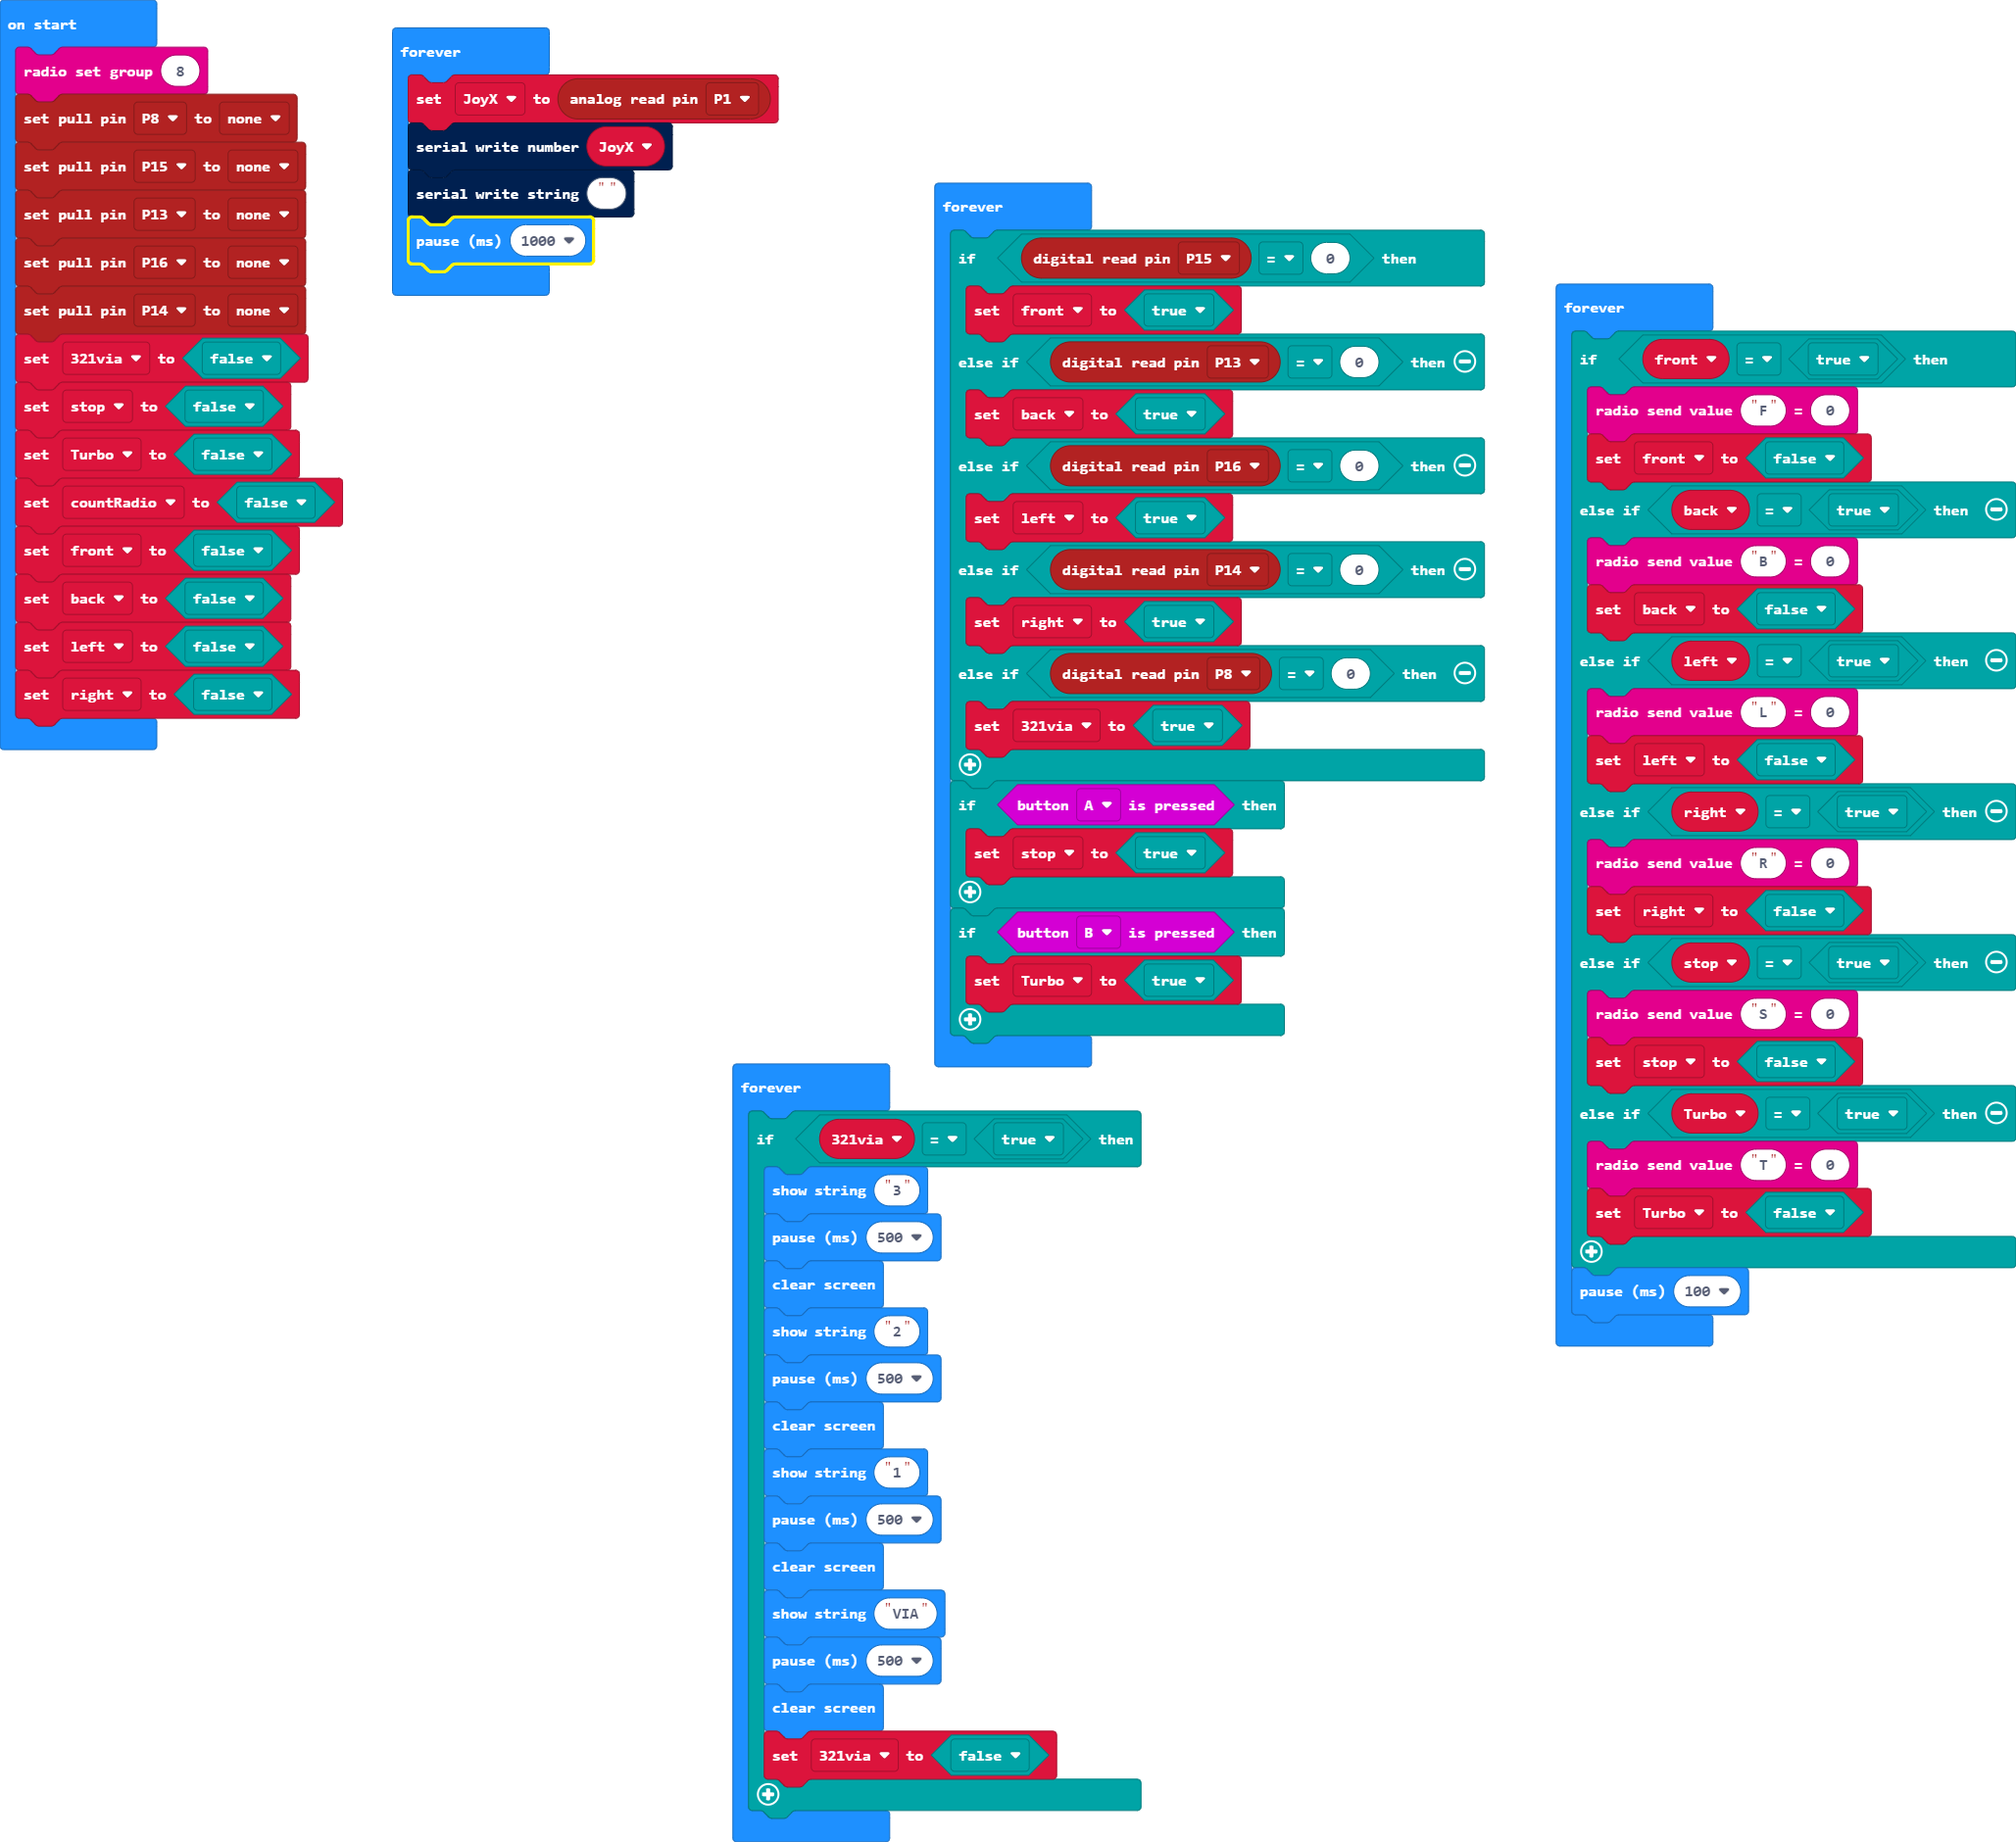
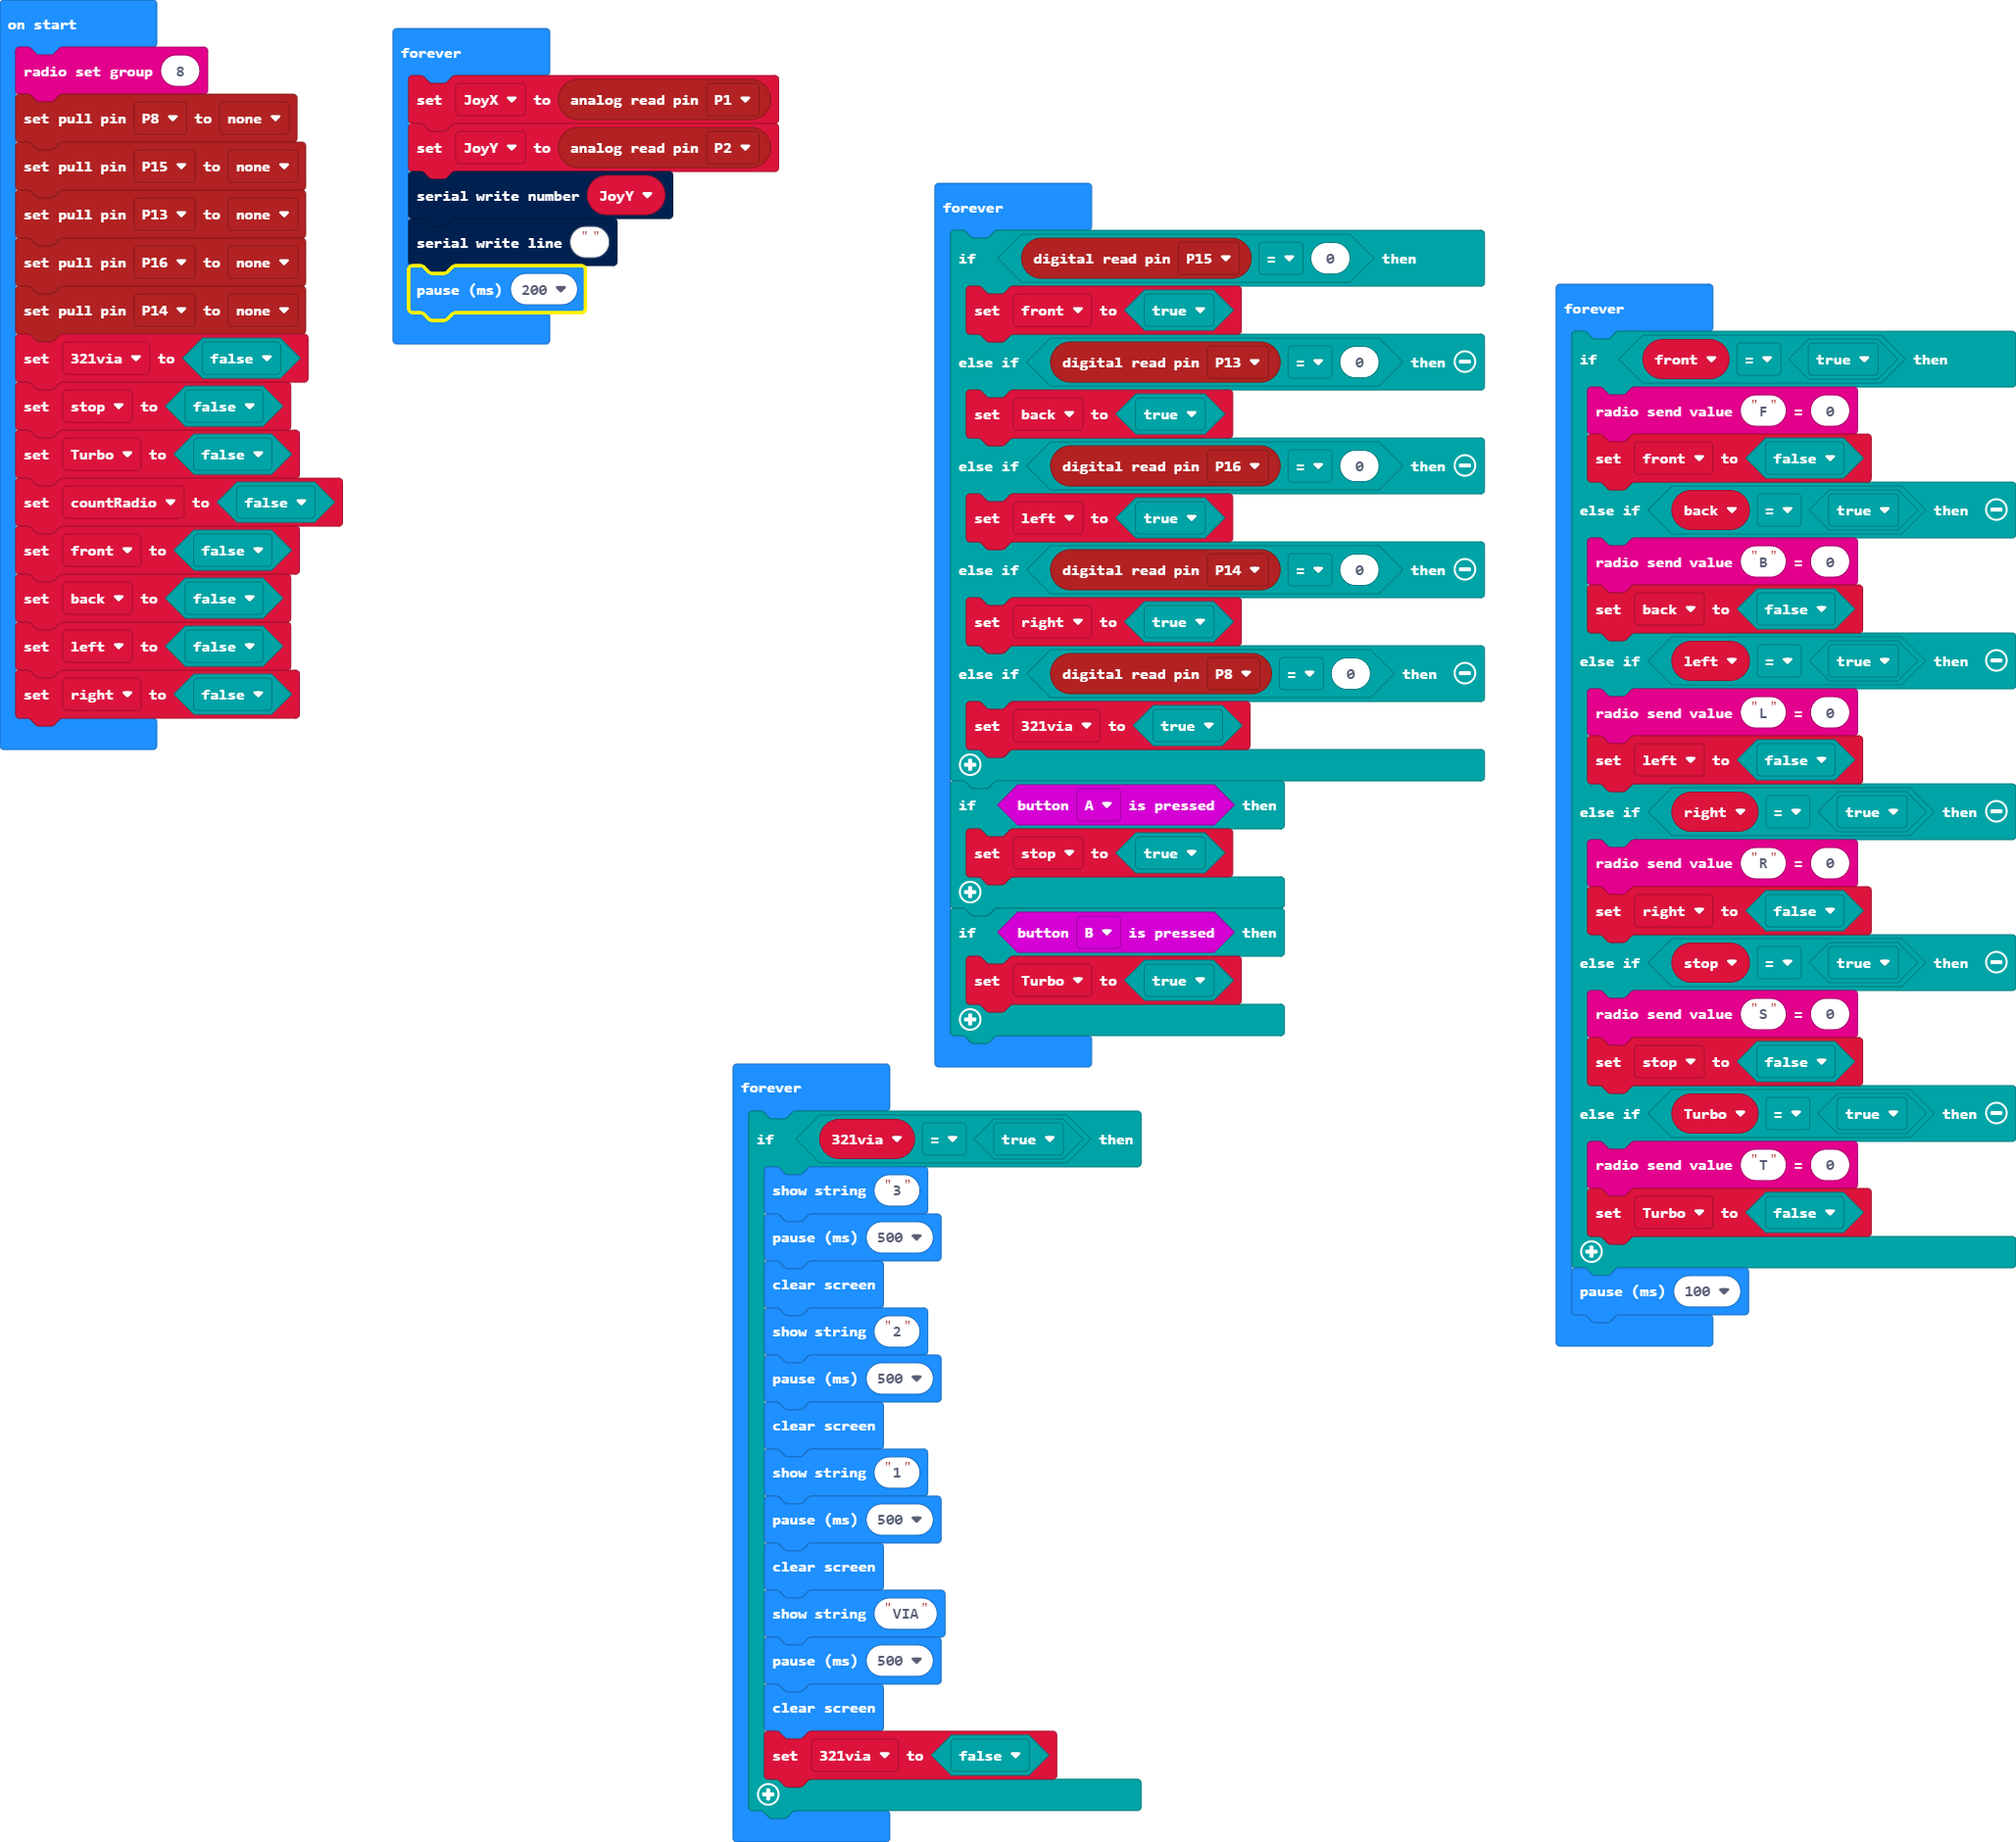
Update main.blocks, main.ts

Changed region(s): [[0.1867, 0.0309, 0.4045, 0.1851]]

diff --git a/main.ts b/main.ts
@@ -1,3 +1,4 @@
+let JoyY = 0
 let JoyX = 0
 radio.setGroup(8)
 pins.setPull(DigitalPin.P8, PinPullMode.PullNone)
@@ -15,9 +16,10 @@ let left = false
 let right = false
 basic.forever(function () {
     JoyX = pins.analogReadPin(AnalogPin.P1)
-    serial.writeNumber(JoyX)
-    serial.writeString("")
-    basic.pause(1000)
+    JoyY = pins.analogReadPin(AnalogPin.P2)
+    serial.writeNumber(JoyY)
+    serial.writeLine("")
+    basic.pause(200)
 })
 basic.forever(function () {
     if (pins.digitalReadPin(DigitalPin.P15) == 0) {
